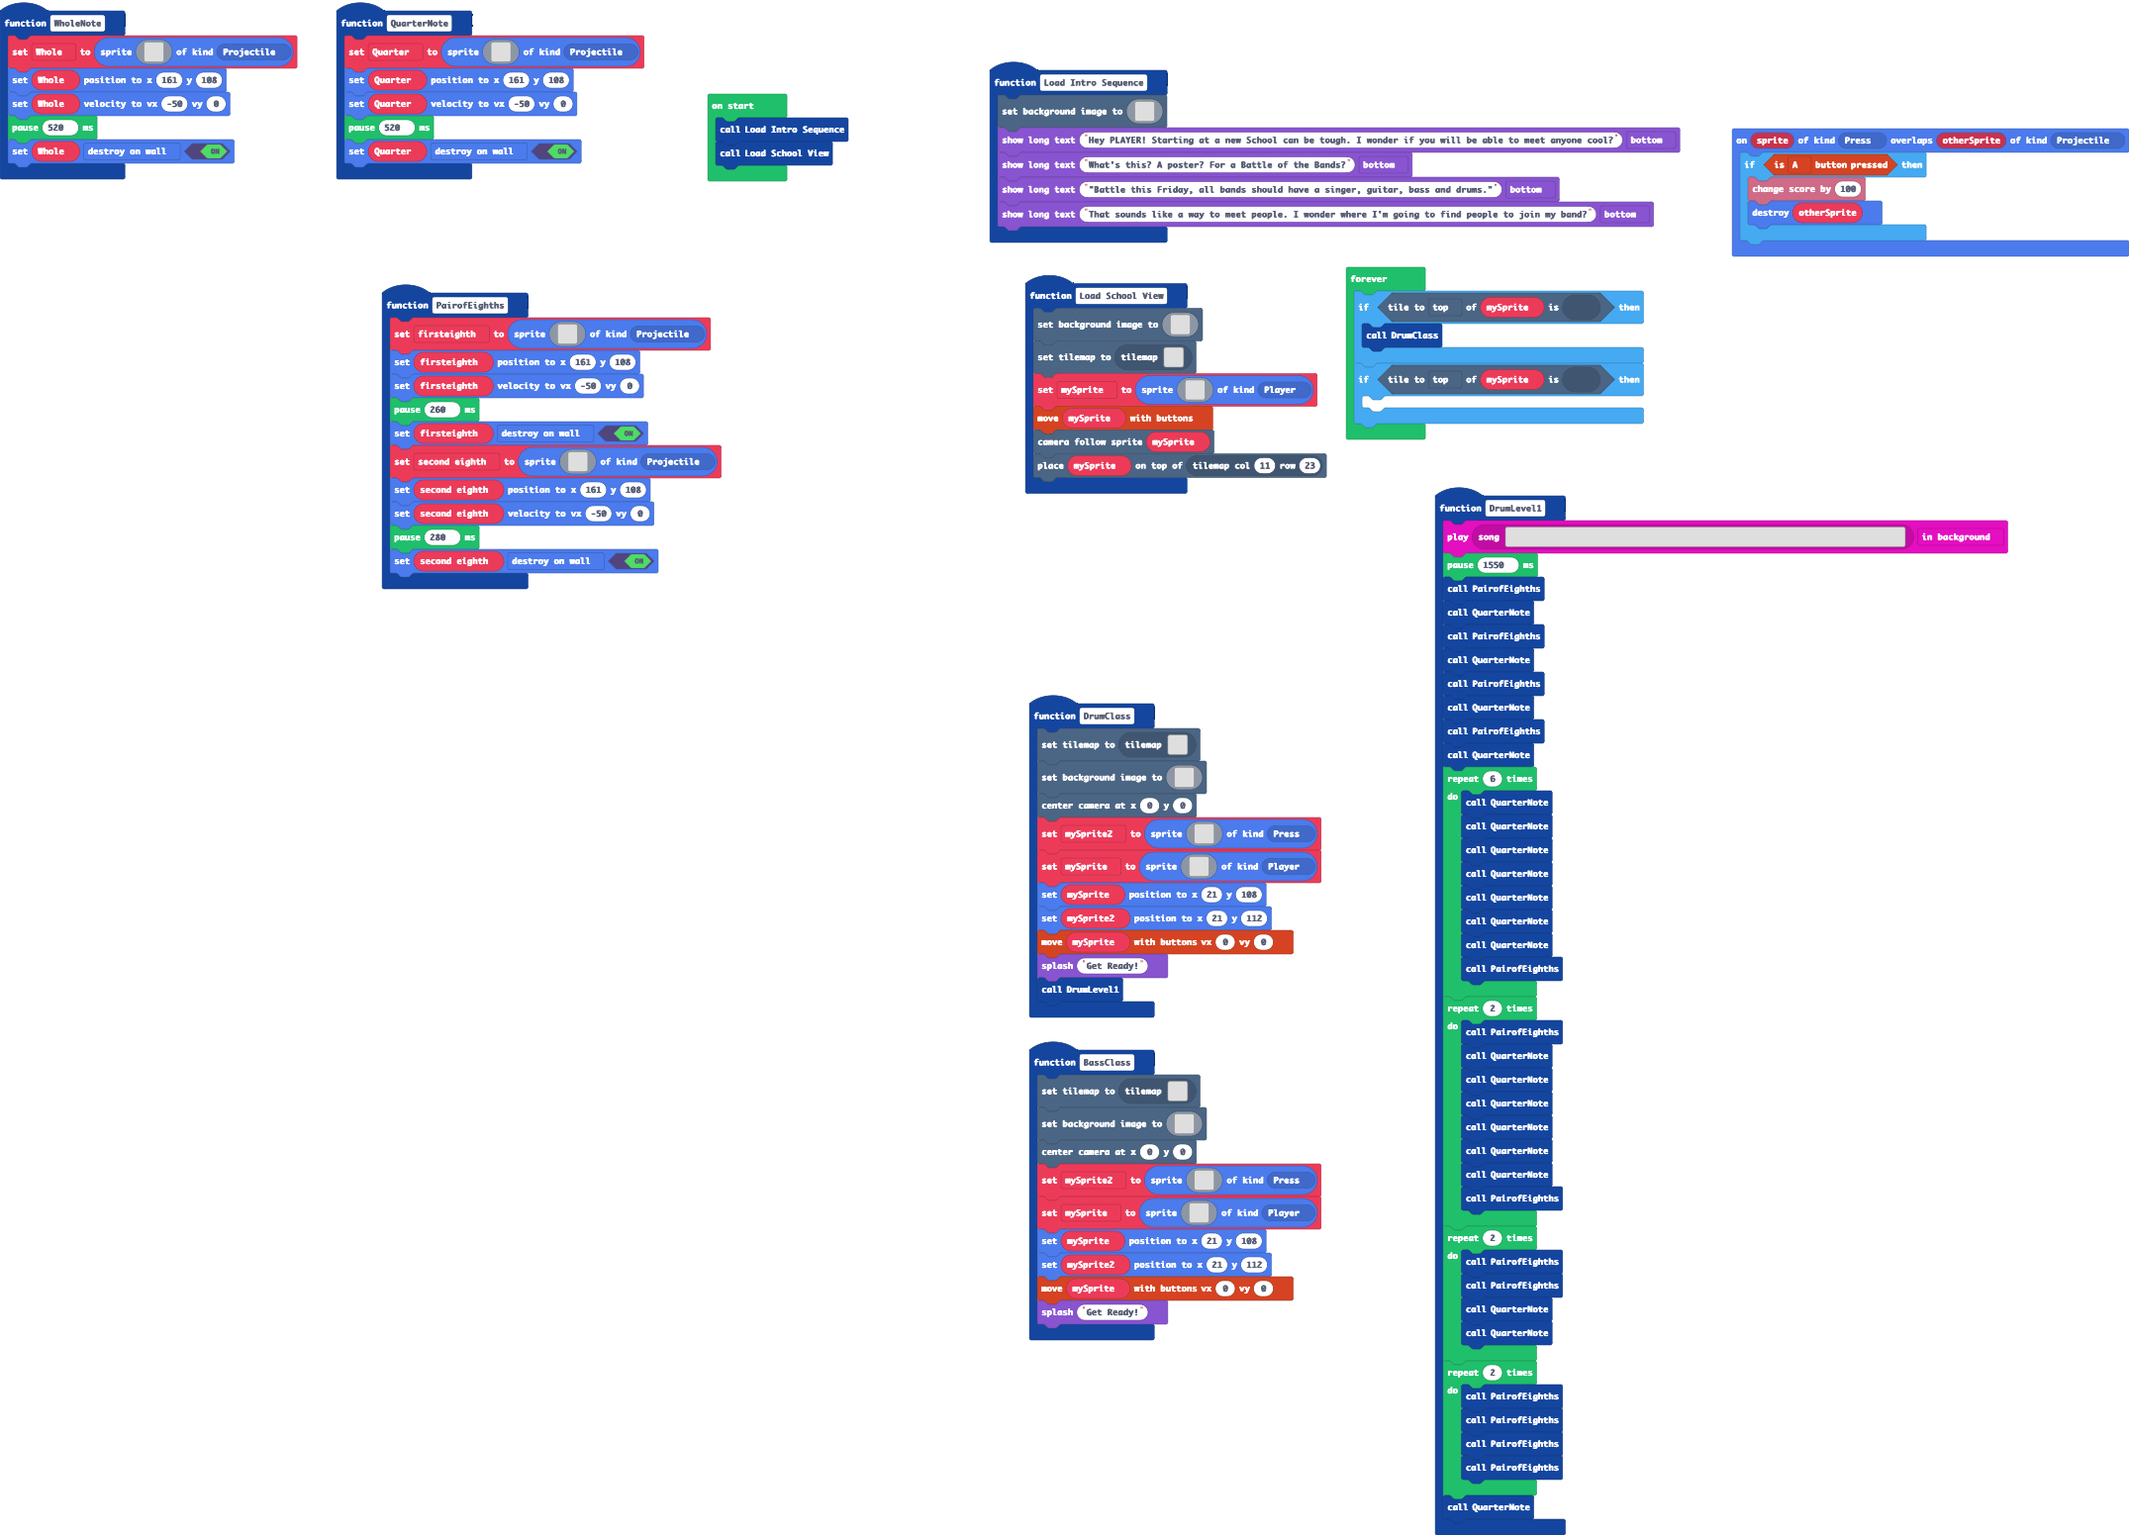
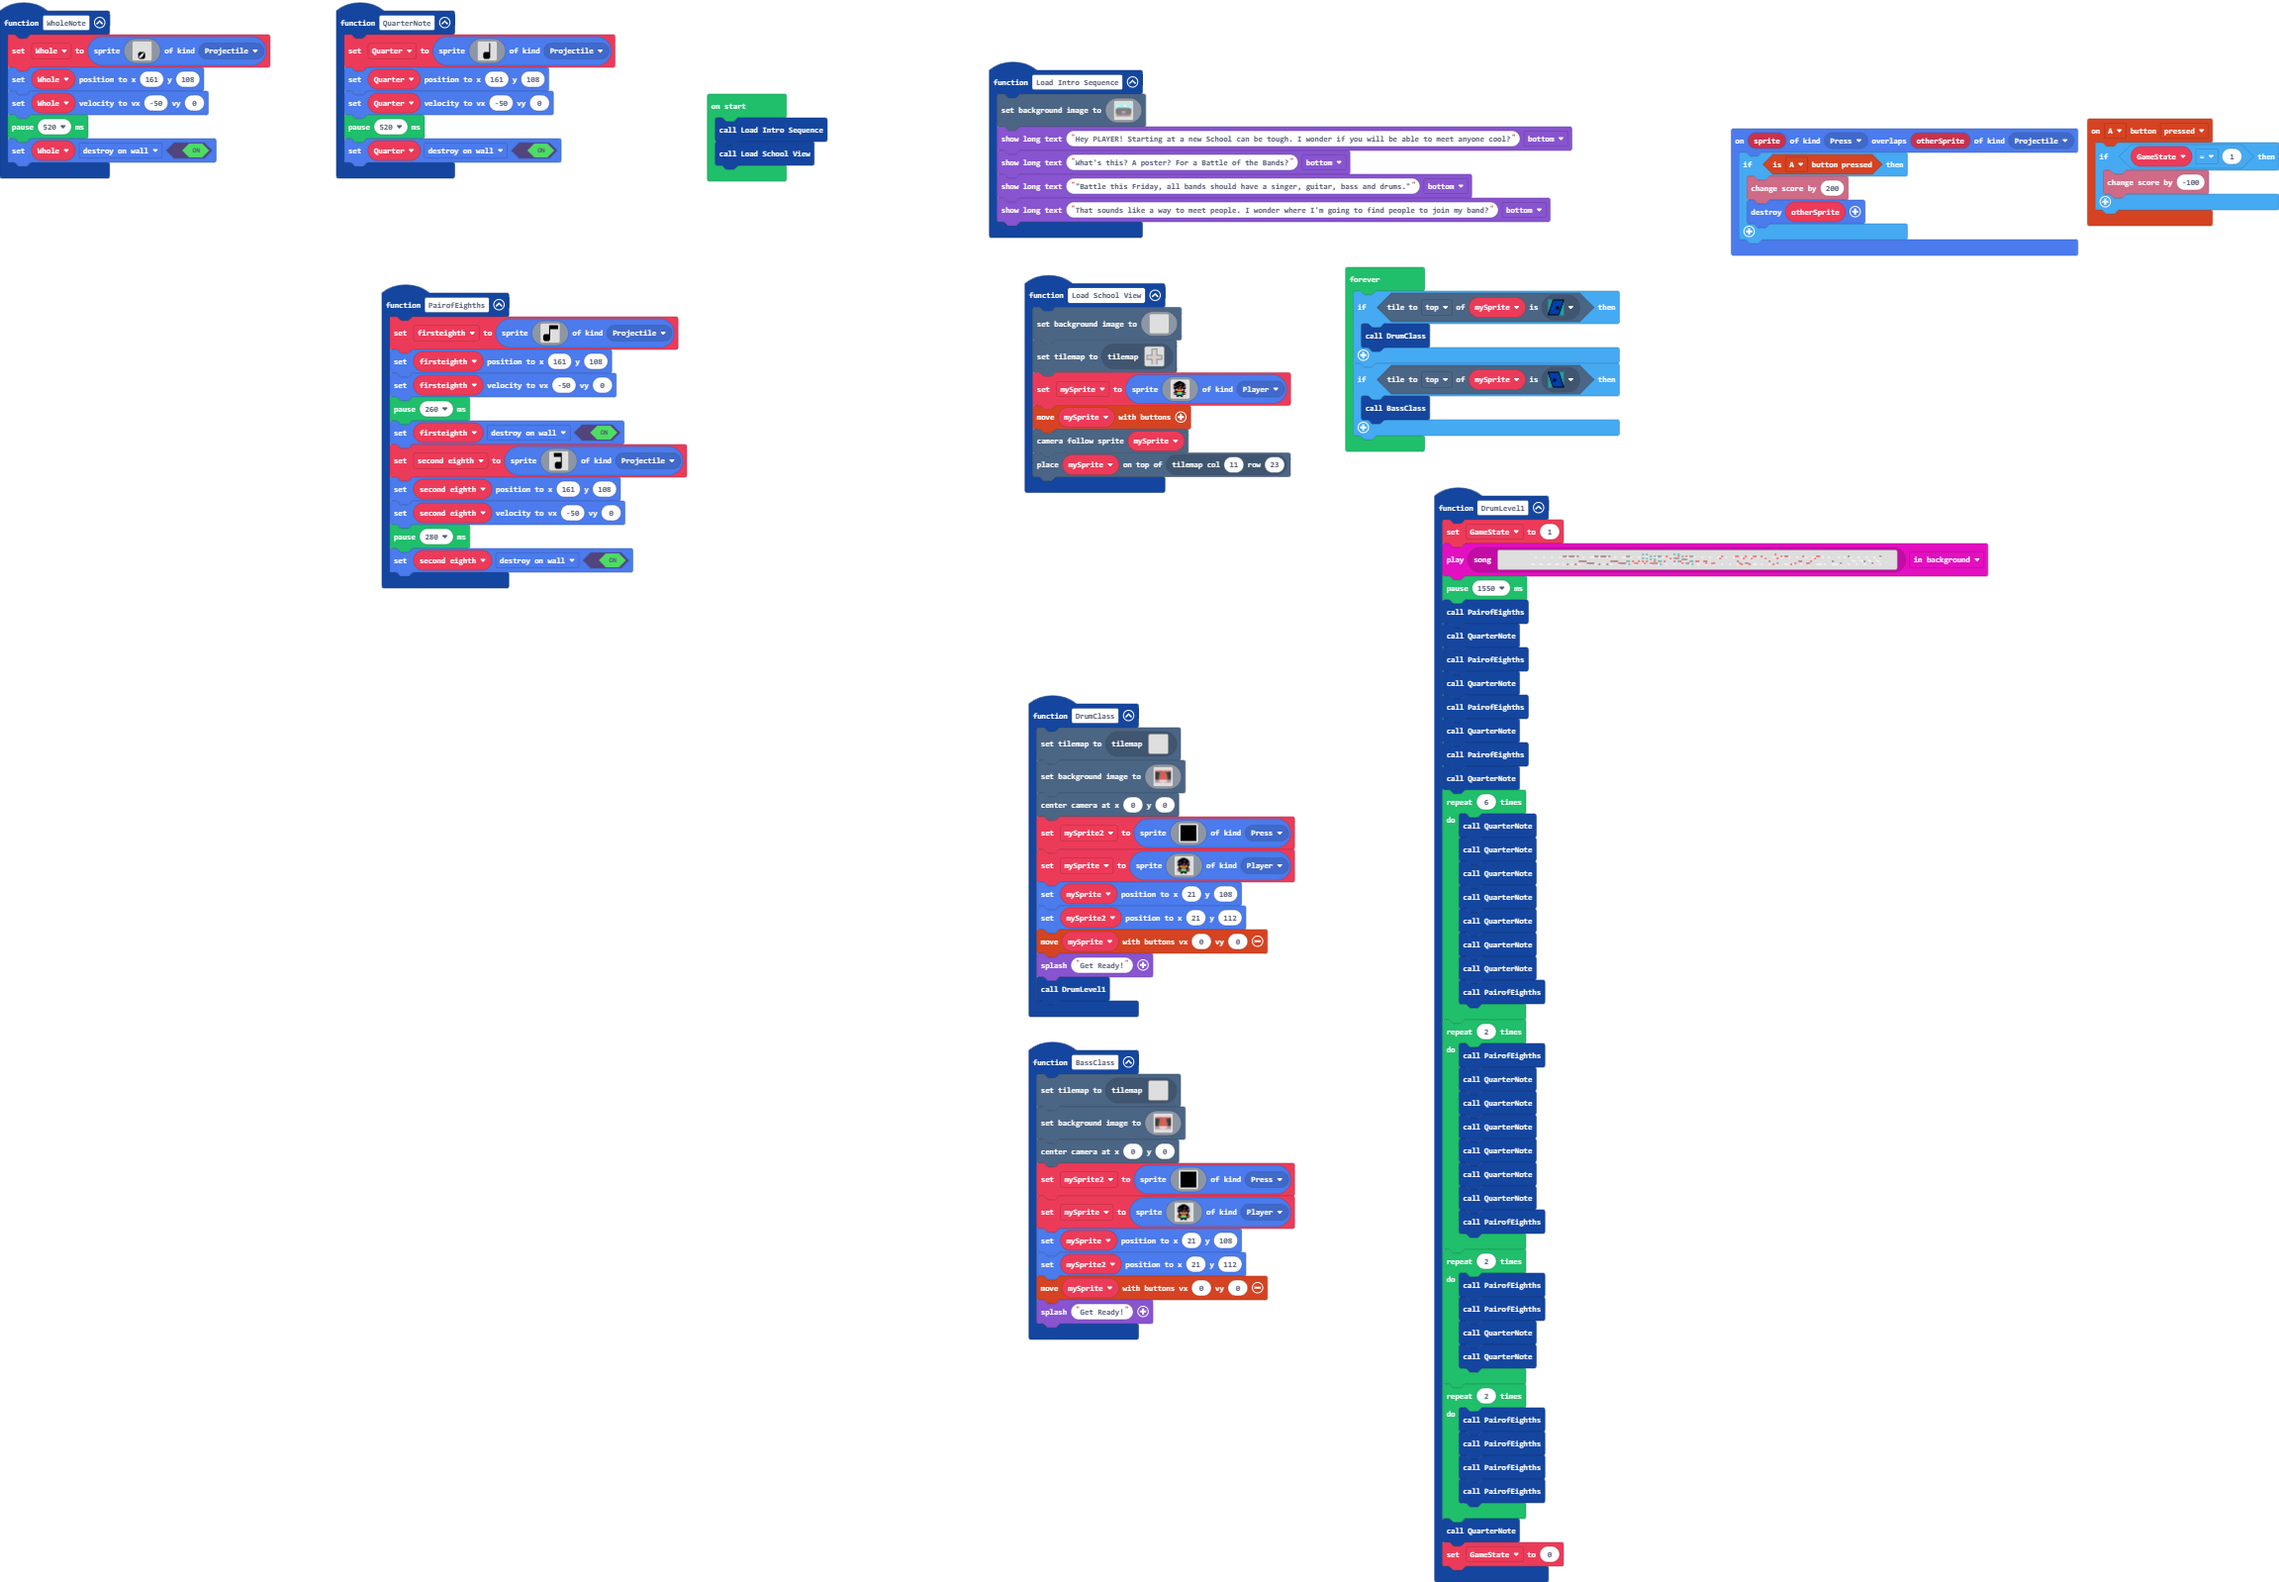
GameState Added

diff --git a/main.ts b/main.ts
@@ -3,11 +3,17 @@ namespace SpriteKind {
 }
 sprites.onOverlap(SpriteKind.Press, SpriteKind.Projectile, function (sprite, otherSprite) {
     if (controller.A.isPressed()) {
-        info.changeScoreBy(100)
+        info.changeScoreBy(200)
         sprites.destroy(otherSprite)
     }
 })
+controller.A.onEvent(ControllerButtonEvent.Pressed, function () {
+    if (GameState == 1) {
+        info.changeScoreBy(-100)
+    }
+})
 function DrumLevel1 () {
+    GameState = 1
     music.play(music.createSong(assets.song`Drum Level 1`), music.PlaybackMode.InBackground)
     pause(1550)
     PairofEighths()
@@ -51,6 +57,7 @@ function DrumLevel1 () {
         PairofEighths()
     }
     QuarterNote()
+    GameState = 0
 }
 function QuarterNote () {
     Quarter = sprites.create(assets.image`QuarterPic`, SpriteKind.Projectile)
@@ -243,6 +250,7 @@ let firsteighth: Sprite = null
 let mySprite: Sprite = null
 let mySprite2: Sprite = null
 let Quarter: Sprite = null
+let GameState = 0
 Load_Intro_Sequence()
 Load_School_View()
 forever(function () {
@@ -250,6 +258,6 @@ forever(function () {
         DrumClass()
     }
     if (mySprite.tileKindAt(TileDirection.Top, assets.tile`myTile1`)) {
-    	
+        BassClass()
     }
 })
